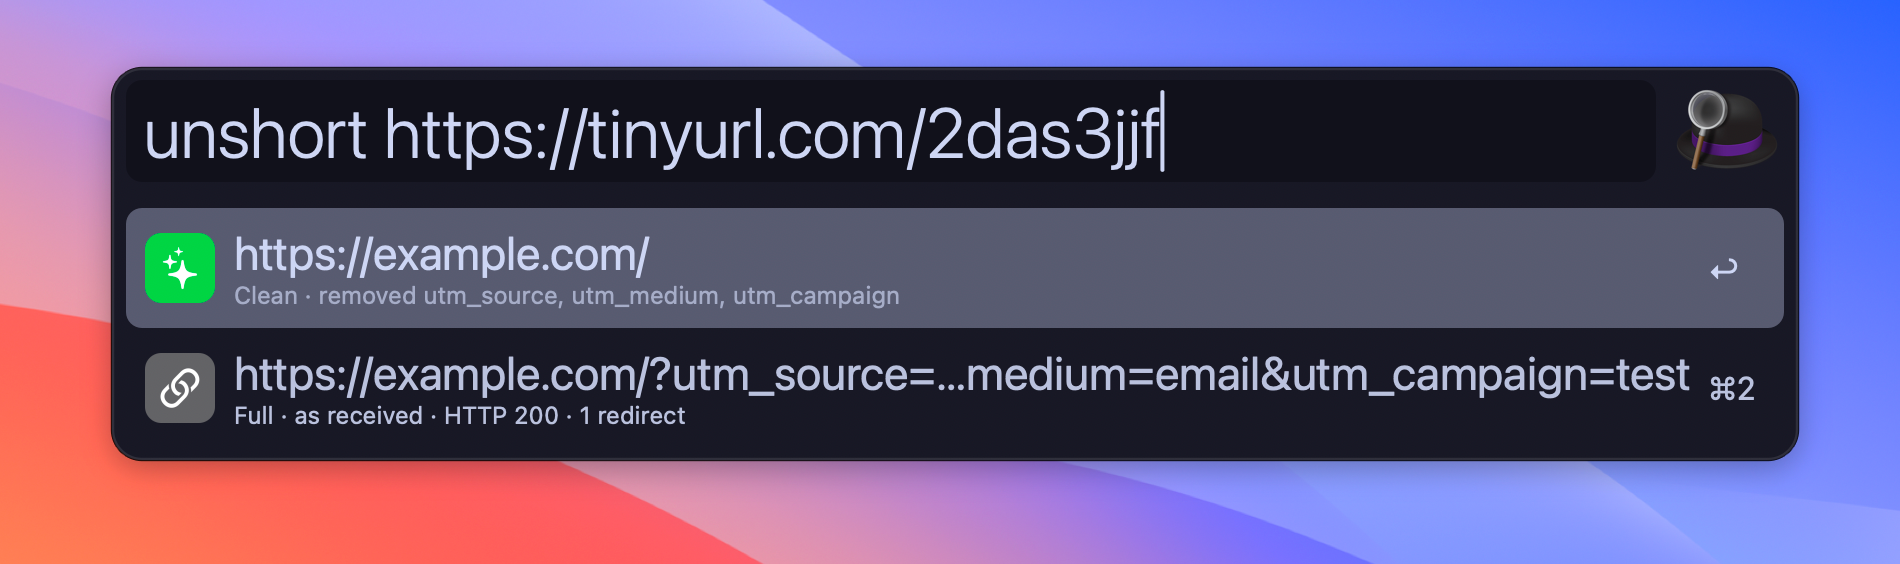
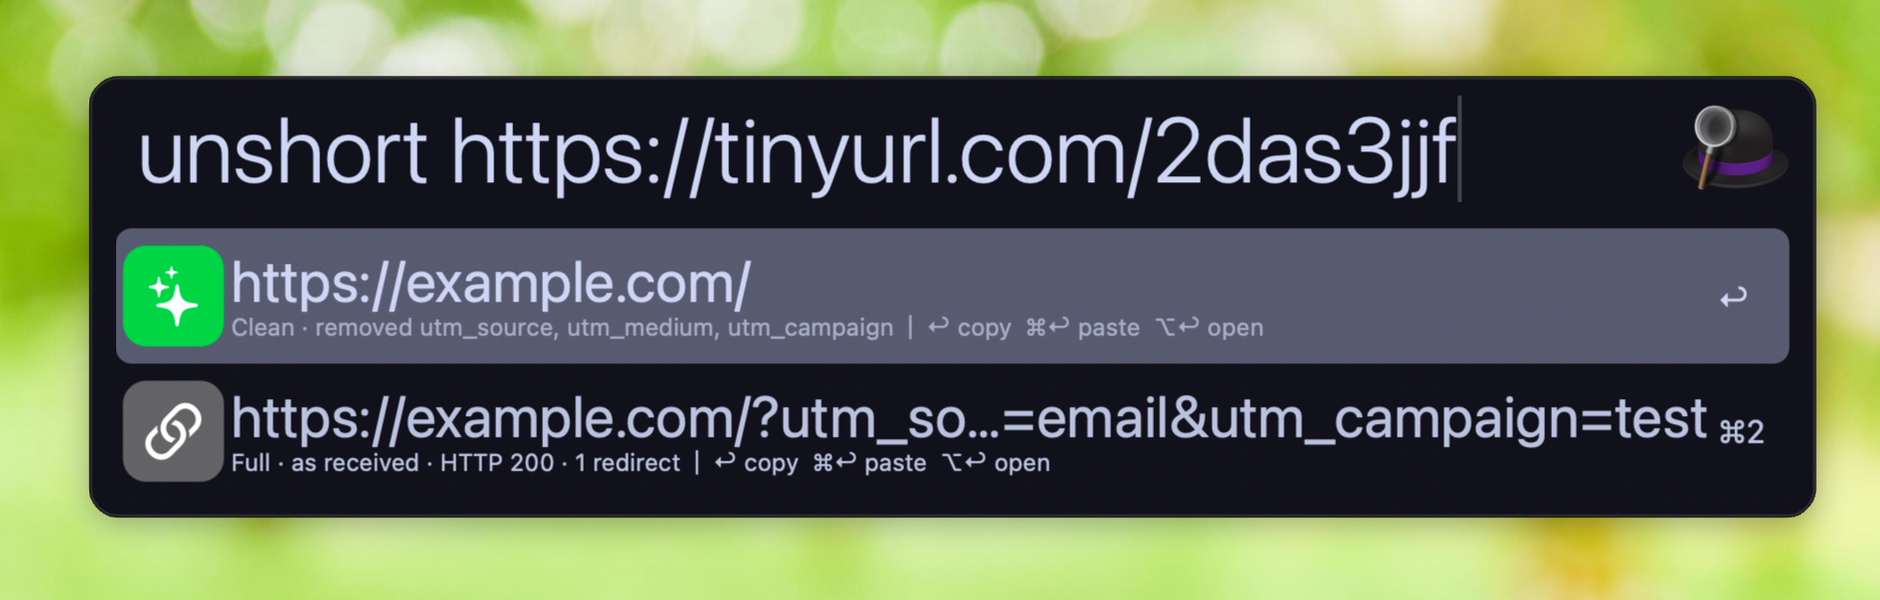
feat: move tracking params to a text file, add 35 more
The list was a case pattern inside the script, which is hard to
read and harder to send a pull request against. It's now one name
per line in src/tracking-params.txt, with a trailing * for prefixes
like utm_*. The script builds a regex from it at startup.

The additions cover common publisher tags (Bloomberg, Guardian, BBC,
CNET, Yahoo), platform share tags (Instagram, Reddit, Google
Shopping), and the usual analytics and email vendors (Matomo, Adobe,
Klaviyo, MailerLite, Branch). Affiliate IDs like Amazon's tag are
deliberately not on the list, since they credit the sharer rather
than track the reader.

I tested prefix matching, a real id param surviving alongside
tracking ones, an affiliate tag surviving, fragments, a bare host,
and the error path. All produce valid JSON.

The README screenshot is updated to show the key hints on each row.

diff --git a/README.md b/README.md
@@ -46,6 +46,6 @@ open Unshorten.alfredworkflow
 
 ## Notes
 
-The list of tracking parameters is a single pattern in the script. If you find one it misses, please let me know by opening an [issue](https://github.com/bumpynux/alfred-unshorten/issues/new) or a [pull request](https://github.com/bumpynux/alfred-unshorten/pulls).
+The list of tracking parameters is in [`src/tracking-params.txt`](src/tracking-params.txt), one name per line, with a trailing `*` for prefixes like `utm_*`. Affiliate tags such as Amazon's `tag` are left alone on purpose, since they credit whoever shared the link rather than track you. If you find a tracking parameter it misses, please let me know by opening an [issue](https://github.com/bumpynux/alfred-unshorten/issues/new) or a [pull request](https://github.com/bumpynux/alfred-unshorten/pulls).
 
 If something else on your Mac already strips tracking parameters from copied links, you will mostly see the Full row. The workflow still does the resolving.
